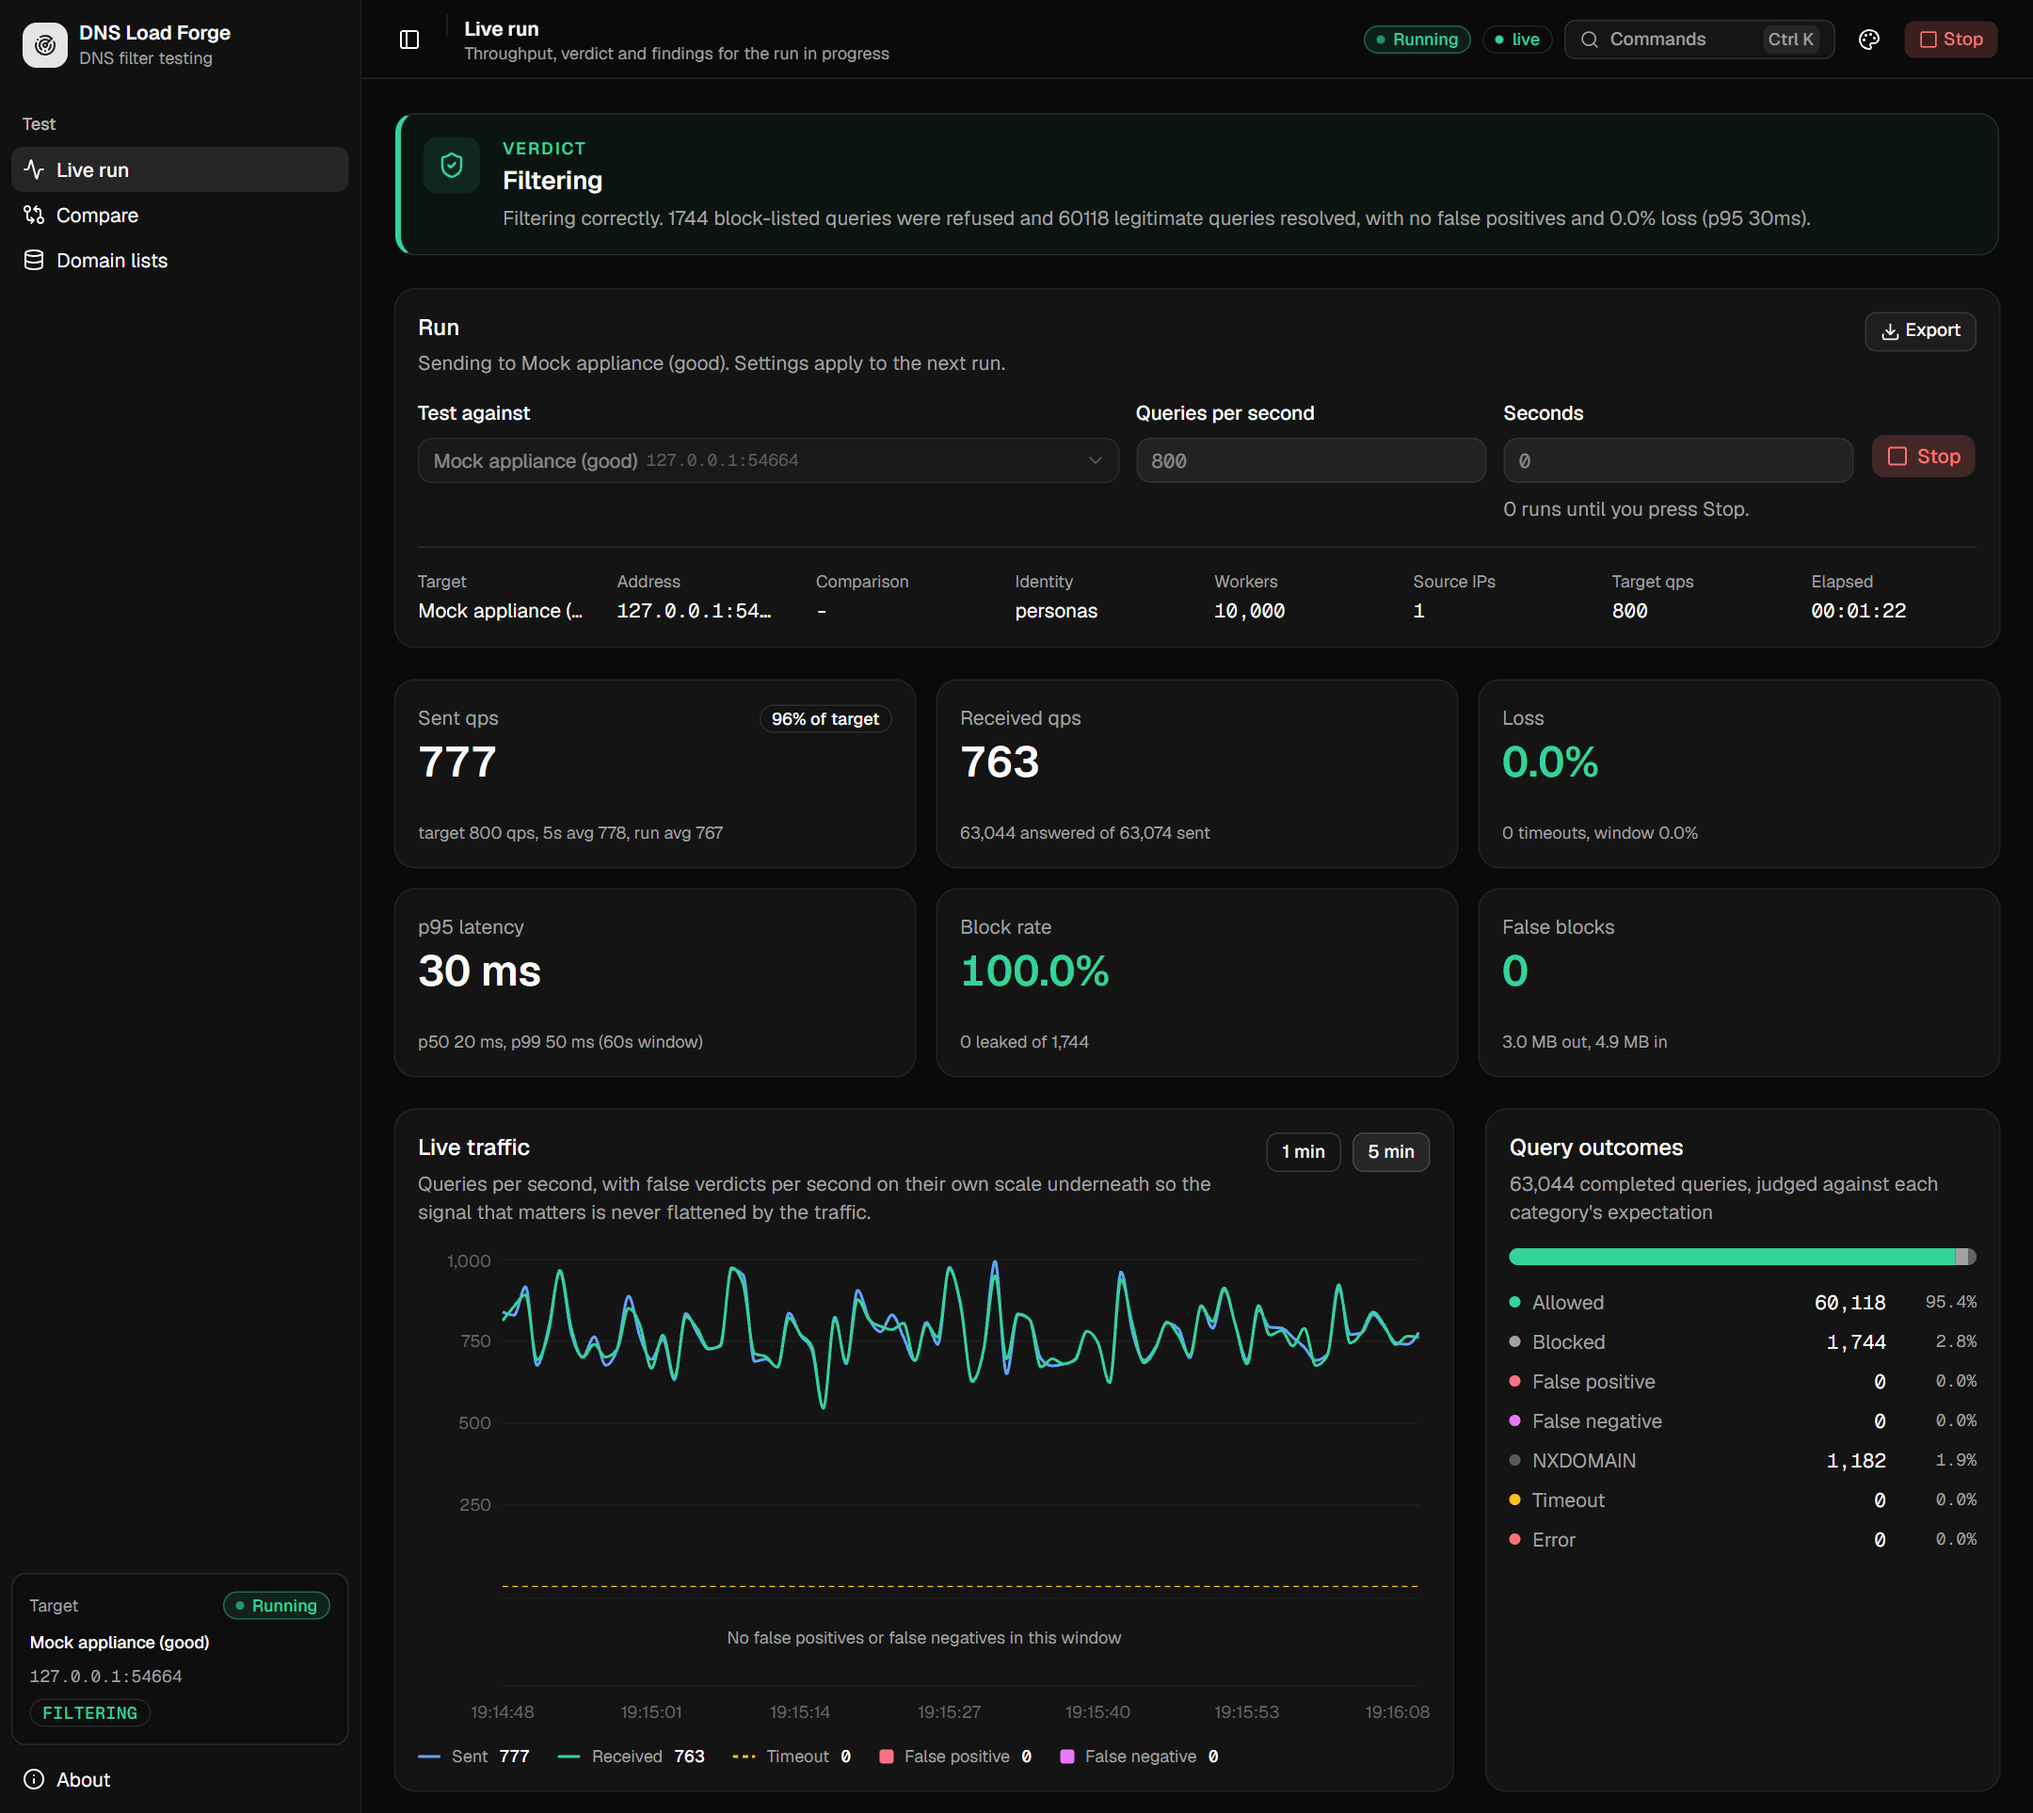
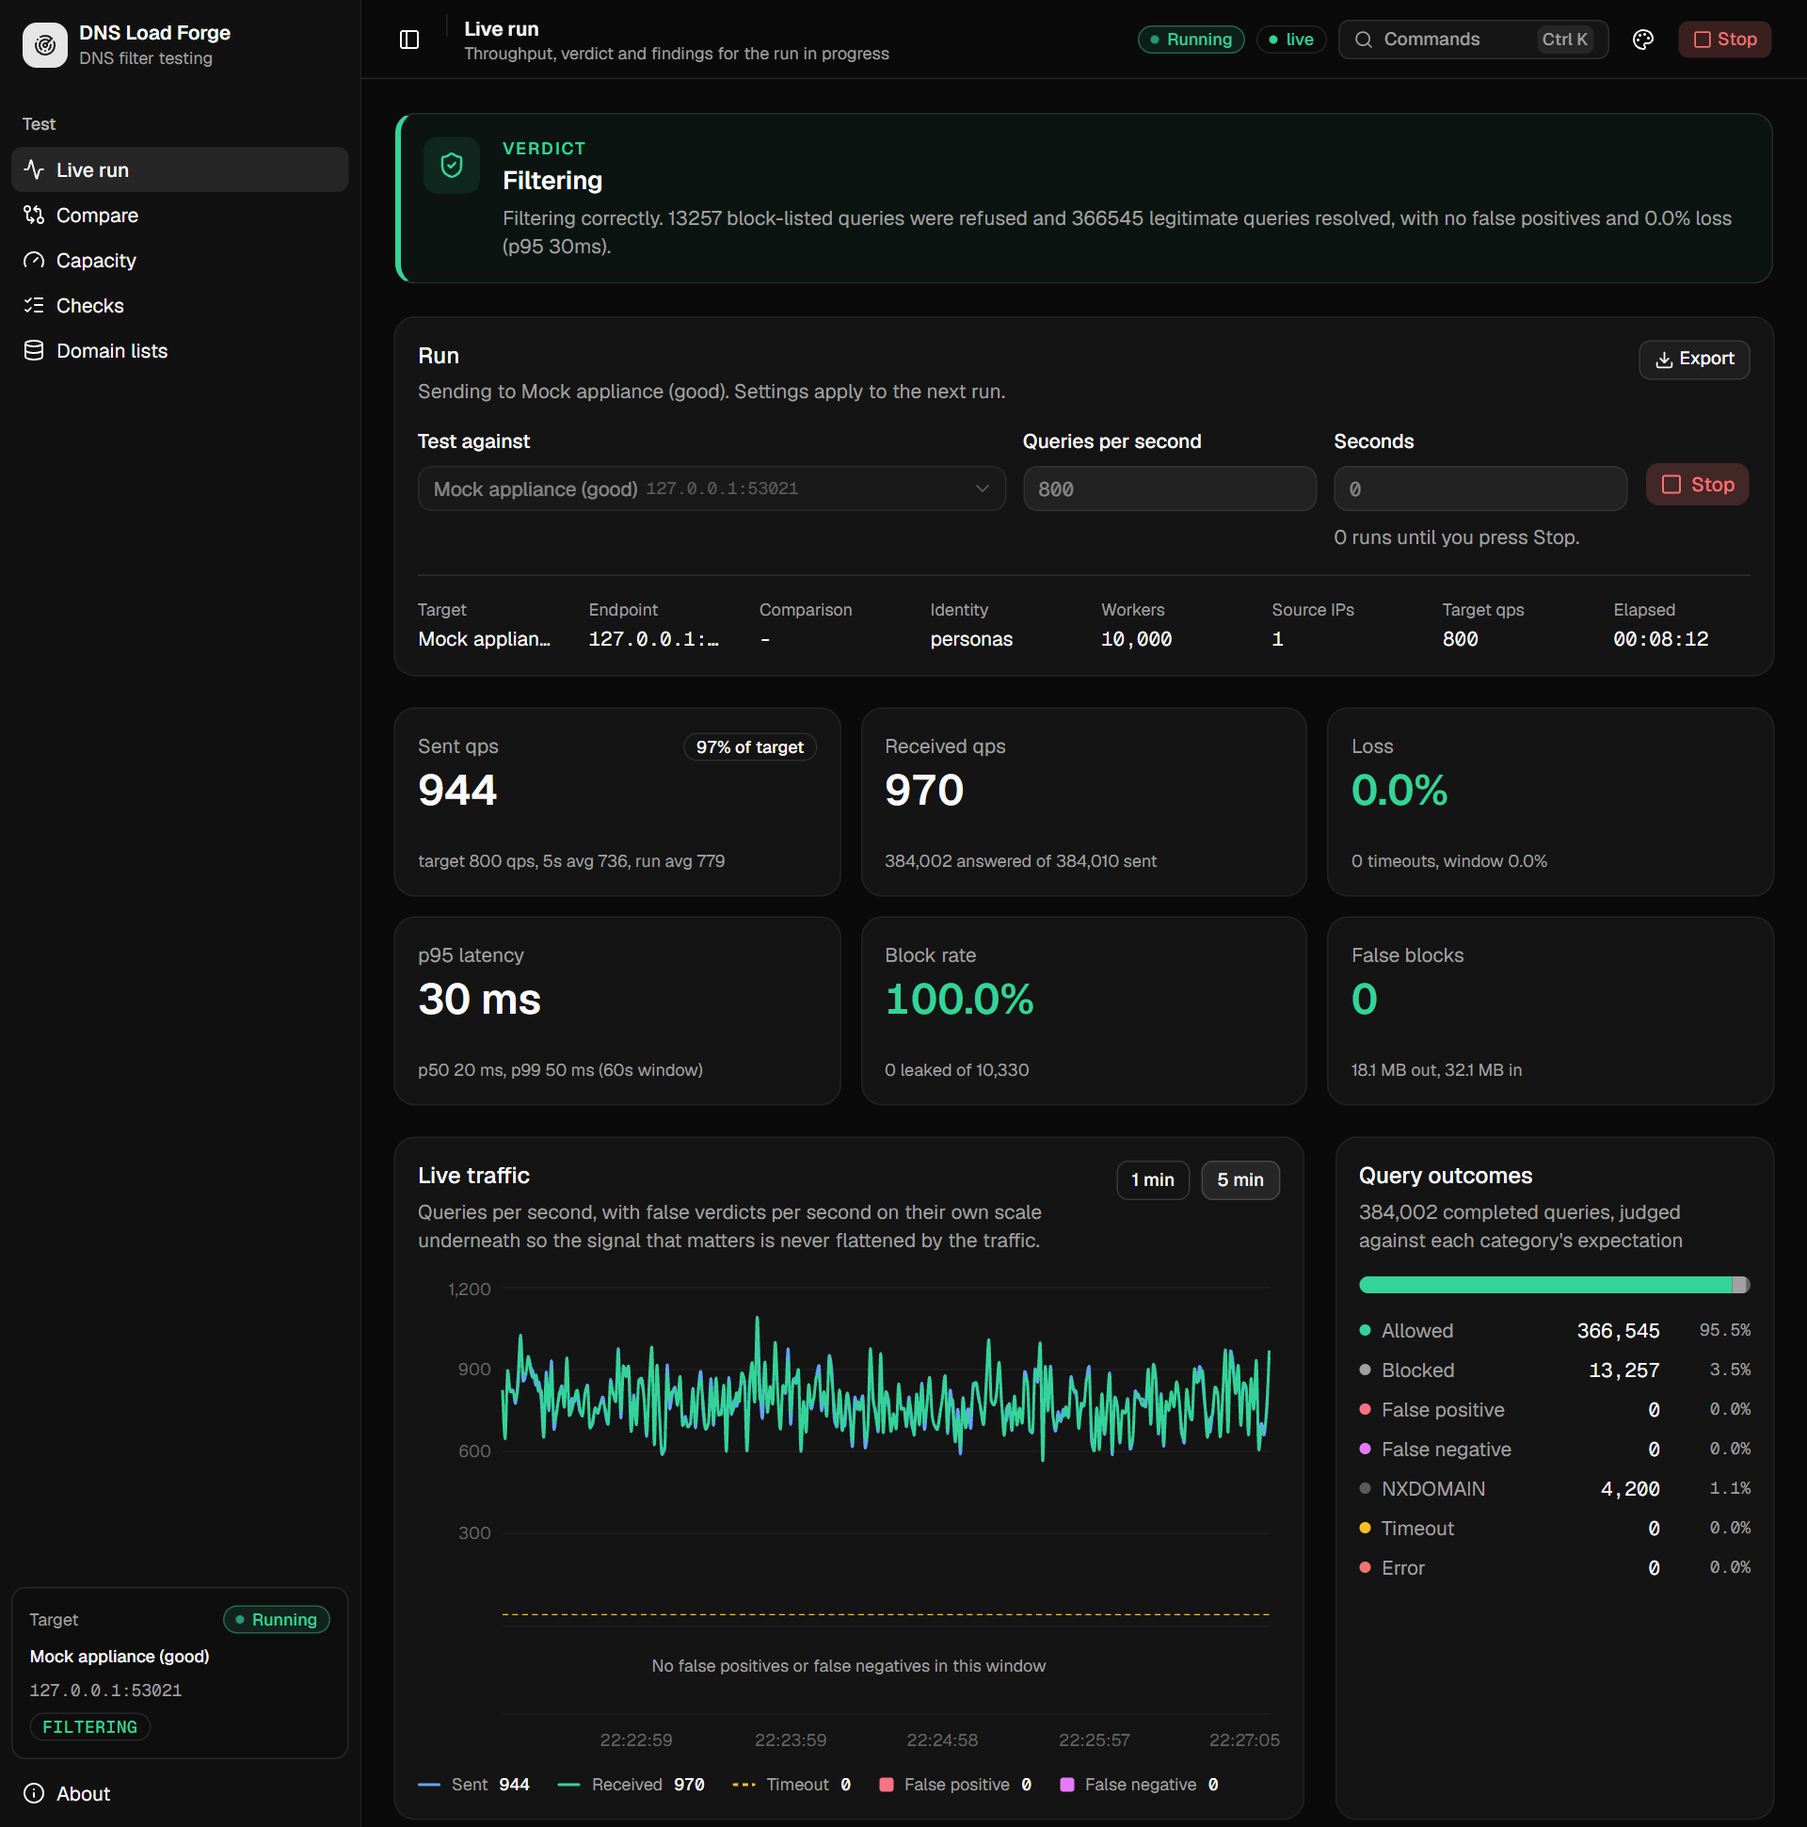
docs: new screenshots, a capacity screenshot, and the revamp in the intro (#24)
## What

Retakes the README screenshots from the current dashboard, adds one of
the Capacity page, and brings the introduction up to date with the
revamp.

## Why

The screenshots predated the Checks and Capacity pages, and the
false-positive alt text quoted a count from the old image. The
introduction still described the tool as it was before the deployment
checks, the capacity search, assertions, the report and the Windows
executable.

## How

- `docs/dashboard.png`: a filtering run against the built-in mock, with
the new pages in the sidebar.
- `docs/false-positives.png`: an `--mock-overblock` run. The alt text
now gives its count (8,485 false blocks) and mentions the block-signal
table.
- `docs/capacity.png` (new), under the capacity section: a search
against the mock that sustains 3,800 qps and breaks at 4,200 qps on p95.
- Introduction: a bullet for checks, capacity, assertions and the
report; "Dependency-free" mentions the Windows executable; the example
block gains `checks` and `capacity` lines.

## How it was tested

- Every image comes from the real code with sample data (the built-in
mock), and each was checked against its alt text. Only loopback
addresses appear.
- The two new example commands parse (`checks --help` and `capacity
--help` both list `--server`).
- The pre-push gate passes (build and all Python tests).

## Checklist

- [x] PR title follows Conventional Commits (`feat:`, `fix:`, `docs:`
...)
[…]

diff --git a/README.md b/README.md
@@ -27,15 +27,20 @@ a filter "blocks threats" and would like to see it do it.
 * **A live dashboard** built with Tailwind CSS and shadcn/ui: verdict, live charts, findings
   tables, side-by-side comparisons and domain lists you can refresh from the page, in light
   or dark and five palettes.
-* **Dependency-free.** Python 3.10+ standard library only; no capture driver, no privileges,
-  runs from a USB stick on an isolated segment. The dashboard is one self-contained page
-  that makes no request beyond the tool itself.
+* **From the first check to the sign-off.** Deployment checks before the load (who answers,
+  whether DNS can go around the filter), a capacity search for the highest rate it sustains,
+  pass/fail assertions for CI, and a printable report at the end.
+* **Dependency-free.** Python 3.10+ standard library only, or a Windows executable; no
+  capture driver, no privileges, runs from a USB stick on an isolated segment. The dashboard
+  is one self-contained page that makes no request beyond the tool itself.
 
 ```
 python -m dnsloadforge targets                       # what you can test against
 python -m dnsloadforge --mock                        # rehearse with no real target
+python -m dnsloadforge checks --server 10.0.0.10     # how the filter is deployed
 python -m dnsloadforge --target "Quad9" --target "OpenDNS FamilyShield" --qps 100 --duration 120
 python -m dnsloadforge --server 10.0.0.10 --qps 2000 --duration 900     # your own appliance
+python -m dnsloadforge capacity --server 10.0.0.10   # the highest rate it sustains
 ```
 
 > **Responsible use.** This sends real DNS traffic, including lookups of malware and phishing
@@ -218,6 +223,9 @@ is no evidence about the target, so the search stops there and says so (`--threa
 faster machine) rather than reporting its own limit as the target's. The Capacity page in
 the dashboard runs the same search, shows each step live, and charts p95 and loss by rate.
 The public-resolver guard applies to the highest rate a search may reach.
+
+![The Capacity page after a search against the built-in mock appliance: it sustains 3,800 qps and breaks at 4,200 qps on p95 latency, with p95 and loss charted by rate and every step listed with its result](docs/capacity.png)
+*A search against the built-in mock appliance, whose limit is the machine it runs on.*
 
 ## Encrypted DNS and TCP
 
@@ -419,7 +427,7 @@ Here is the first case, produced with `--mock --mock-overblock`: the mock applia
 wrongly blocks the enterprise list, the verdict turns `DEGRADED`, false-positive bars
 appear under the traffic chart, and the table names every broken domain.
 
-![A DEGRADED verdict: 12,577 false blocks, false-positive bars under the traffic chart, the results by category, and a false-positive table listing blocked enterprise domains such as webex.com and ocsp.digicert.com](docs/false-positives.png)
+![A DEGRADED verdict: 8,485 false blocks, false-positive bars under the traffic chart, the results by category, how the target signalled its blocks, and a false-positive table listing blocked enterprise domains such as webex.com and ocsp.digicert.com](docs/false-positives.png)
 
 ## How a block is recognised
 
